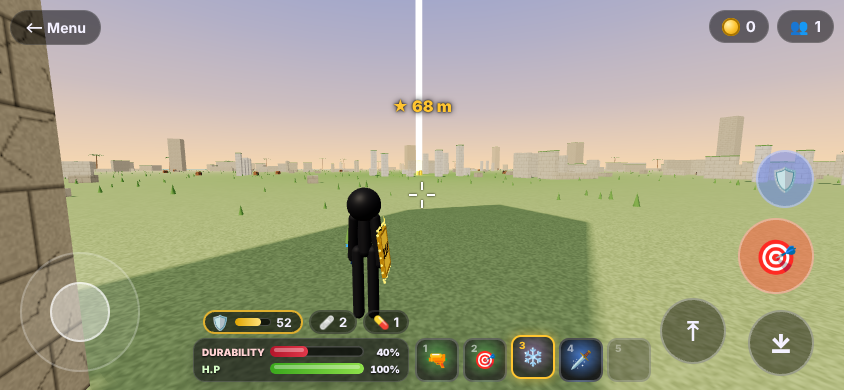
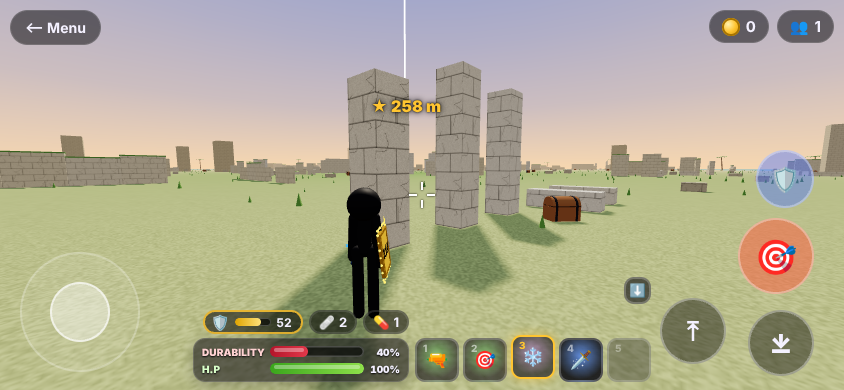
Drop button floats above the slots; browser test checks it last (#34)
Claude-Session: https://claude.ai/code/session_01QgSuHVNhwYzMk86MH96zJY

diff --git a/apps/game/test/e2e/menu-shop.test.js b/apps/game/test/e2e/menu-shop.test.js
@@ -376,12 +376,6 @@ test('weapon bar: Durability bar follows the held weapon, tap to switch, a broke
     for (let i = 0; i < 40 && sentShield.at(-1) !== false; i++) await p.waitForTimeout(50);
     assert.deepEqual(sentShield, [true, false]);
 
-    // the ⬇ button drops the weapon in your hand (#34): tapping it asks the server
-    assert.equal(await p.locator('#btnDrop').isVisible(), true);
-    await p.locator('#btnDrop').tap();
-    for (let i = 0; i < 40 && !sentDrop; i++) await p.waitForTimeout(50);
-    assert.equal(sentDrop, 1);
-
     // tap a slot: the game asks the server for it
     await p.locator('#slots .slot').nth(1).tap();
     for (let i = 0; i < 40 && !sentSlots.includes(1); i++) await p.waitForTimeout(50);
@@ -400,6 +394,13 @@ test('weapon bar: Durability bar follows the held weapon, tap to switch, a broke
     assert.equal(await p.locator('#btnShield').isVisible(), false);
     assert.equal(await p.locator('#slots .slot.empty').count(), 2);
     await p.waitForFunction(() => !document.querySelector('#slots .slot.broke'), null, { timeout: 3000 });
+
+    // the ⬇ button drops the weapon in your hand (#34): tapping it asks the server (the real server then
+    // drops the real Gun, so this comes last)
+    assert.equal(await p.locator('#btnDrop').isVisible(), true);
+    await p.locator('#btnDrop').tap();
+    for (let i = 0; i < 40 && !sentDrop; i++) await p.waitForTimeout(50);
+    assert.equal(sentDrop, 1);
 
     // every weapon broke (the Gun too): 5 empty slots and no errors
     toPage(encode('inv', { ...inv, weapons: [], dur: [], slot: 0 }));

diff --git a/apps/game/public/style.css b/apps/game/public/style.css
@@ -148,8 +148,8 @@ input:focus { border-color: var(--gold); }
 .meter.hp .mfill.low { background: linear-gradient(90deg, #e2541a, #ffa53a); animation: blink 0.7s ease-in-out infinite alternate; }
 
 .slots { display: flex; gap: 6px; }
-/* Drop the weapon in your hand (#34): a small button right of the slots */
-.dropbtn { pointer-events: auto; align-self: center; width: calc(var(--slot) * 0.62); height: calc(var(--slot) * 0.62); border-radius: 10px; padding: 0;
+/* Drop the weapon in your hand (#34): a small button just above the right end of the slots (takes no room in the bar) */
+.dropbtn { pointer-events: auto; position: absolute; right: 0; bottom: calc(100% + 6px); width: calc(var(--slot) * 0.62); height: calc(var(--slot) * 0.62); border-radius: 10px; padding: 0;
   background: rgba(10, 8, 16, 0.6); border: 2px solid rgba(255,255,255,0.22); font-size: calc(var(--slot) * 0.3); line-height: 1; touch-action: none; }
 .dropbtn:active { background: rgba(255,255,255,0.3); }
 .slot {
